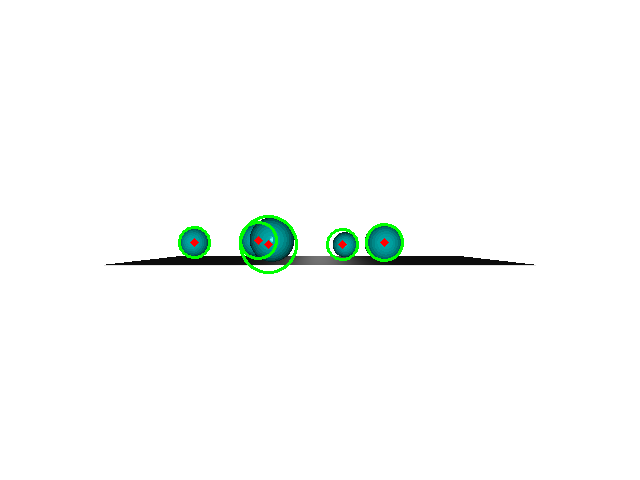
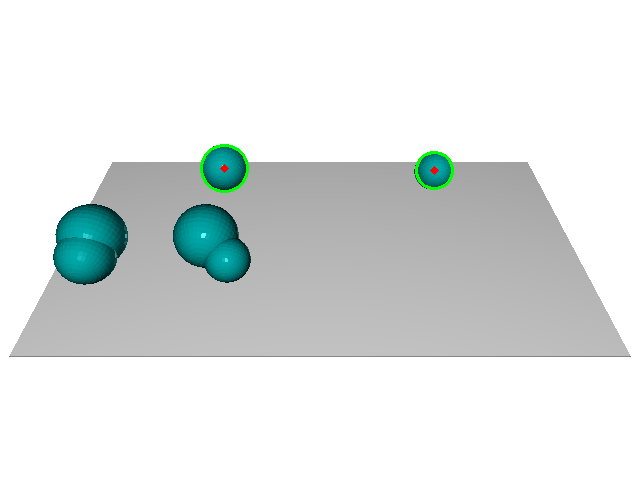
task 6 and 7 done

diff --git a/CWII2324-v2.py b/CWII2324-v2.py
@@ -28,31 +28,60 @@ http://www.open3d.org/docs/latest/tutorial/Basic/visualization.html
 '''
 
 
-def compute_3d_location(K, R, T, points2D):
-    """
-  K is the camera matrix that includes the focal length and the optical center.
-  R and T are the rotation and translation of the camera.
-  points2D is the 2D point in the camera view.
-  """
-    # Convert the 2D point to homogeneous coordinates
-    points2D = np.array(points2D).reshape(-1, 1)
-    points2D_homogeneous = np.hstack((points2D, np.ones((points2D.shape[0], 1))))
+def triangulate_point2(p_left, p_right, M_left, M_right, K):
+    # Convert image points to normalized camera coordinates
+    K_inv = np.linalg.inv(K)
+    p_left_norm = K_inv.dot(np.append(p_left, 1))
+    p_right_norm = K_inv.dot(np.append(p_right, 1))
 
-    # Compute the 3D location of the point in the camera view
-    points3D_camera = np.linalg.inv(K) @ points2D_homogeneous
+    # Construct matrix A for the linear system Ap = 0
+    A = np.array([
+        p_left_norm[0] * M_left[2, :] - M_left[0, :],
+        p_left_norm[1] * M_left[2, :] - M_left[1, :],
+        p_right_norm[0] * M_right[2, :] - M_right[0, :],
+        p_right_norm[1] * M_right[2, :] - M_right[1, :]
+    ])
 
-    # Compute the 3D location of the point in the world view
-    points3D_world = np.linalg.inv(R @ T) @ points3D_camera
+    # Solve for P using SVD
+    U, S, Vt = np.linalg.svd(A)
+    P = Vt[-1]
+    P = P / P[3]  # Convert to homogeneous coordinates
 
-    return points3D_world
+    return P[:3]
 
 
-def find_AB(pl, pr, R, T):
-    x = np.dot(np.transpose(R), pr)
-    b = (pl[1] * T[2] - T[1]) / (x[1] - x[2] * pl[1])
-    a = b * x[2] + T[2]
+def skew_symmetric(v):
+    return np.array([[0, -v[2], v[1]], [v[2], 0, -v[0]], [-v[1], v[0], 0]])
 
-    return a, b
+
+def compute_fundamental_matrix(M_left, M_right, K):
+    # Compute Left-to-Right Camera Transformation
+    M_left_to_right = np.dot(M_right, np.linalg.inv(M_left))
+
+    # Extract R and T from the Left-to-Right Camera Transformation
+    R = M_left_to_right[:3, :3]
+    T = M_left_to_right[:3, 3]
+
+    # Compute Essential Matrix
+    T_skew = skew_symmetric(T)
+    E = np.dot(T_skew, R)
+
+    # Compute Fundamental Matrix
+    K_inv = np.linalg.inv(K)
+    F = np.dot(np.dot(K_inv.T, E), K_inv)
+
+    return F, R, T
+
+
+def remove_duplicates_with_higher_distance(points_list):
+    best_entries = {}
+
+    for c, mc, d in points_list:
+        if c not in best_entries or d < best_entries[c][1]:
+            best_entries[c] = (mc, d)
+
+    cleaned_list = [(c, mc, d) for c, (mc, d) in best_entries.items()]
+    return cleaned_list
 
 
 def findCircles(img, imageNumber):
@@ -60,8 +89,8 @@ def findCircles(img, imageNumber):
     img_gray = cv2.equalizeHist(img_gray)
     blur = cv2.medianBlur(img_gray, 5)
 
-    circles = cv2.HoughCircles(blur, cv2.HOUGH_GRADIENT, dp=1, minDist=10, param1=50, param2=15, minRadius=0,
-                            maxRadius=180)
+    circles = cv2.HoughCircles(blur, cv2.HOUGH_GRADIENT, dp=1, minDist=10, param1=50, param2=20, minRadius=10,
+                               maxRadius=100)
 
     centers = []
     if circles is not None:
@@ -329,29 +358,23 @@ if __name__ == '__main__':
     Write your code here
     '''
     ###################################
-    # Step 2: Extract features/keypoints from both images
-    # Use any feature detection algorithm of your choice
-    # For example, using ORB feature detector
-    orb = cv2.ORB_create()
-    keypoints1, descriptors1 = orb.detectAndCompute(img0, None)
-    keypoints2, descriptors2 = orb.detectAndCompute(img1, None)
 
-    # Step 3: Compute the fundamental matrix
-    # Use the keypoints and descriptors from step 2
-    matcher = cv2.BFMatcher(cv2.NORM_HAMMING)
-    matches = matcher.match(descriptors1, descriptors2)
-    points1 = np.float32([keypoints1[m.queryIdx].pt for m in matches]).reshape(-1, 1, 2)
-    points2 = np.float32([keypoints2[m.trainIdx].pt for m in matches]).reshape(-1, 1, 2)
-    fundamental_matrix, _ = cv2.findFundamentalMat(points1, points2, cv2.FM_RANSAC)
+    F, R, T = compute_fundamental_matrix(H0_wc, H1_wc, K.intrinsic_matrix)
 
     epipolarLines = []
-
+    epipolarLinesR = []
     for point in circles_center0:
         homogeneous_point = np.array([point[0], point[1], 1])
-        epipolar_line = np.dot(fundamental_matrix, homogeneous_point)
+        homogeneous_pointR = np.array([point[0] , point[1]- point[2], 1])
+
+        epipolar_line = np.dot(F, homogeneous_point)
+        epipolar_lineR = np.dot(F, homogeneous_pointR)
 
         epipolar_line_homogeneous = np.array([epipolar_line[0], epipolar_line[1], epipolar_line[2]])
+        epipolar_line_homogeneousR = np.array([epipolar_lineR[0], epipolar_lineR[1], epipolar_lineR[2]])
+
         epipolar_line_homogeneous /= np.linalg.norm(epipolar_line_homogeneous)
+        epipolar_line_homogeneousR /= np.linalg.norm(epipolar_line_homogeneousR)
 
         a, b, c = epipolar_line_homogeneous
         x0, x1 = 0, img1.shape[1] - 1
@@ -359,10 +382,22 @@ if __name__ == '__main__':
         y1 = int((-c - a * x1) / b)
         epipolarLines.append((a, b, c, point))
 
-        epipolar_line_image = cv2.line(img1, (x0, y0), (x1, y1), (0, 255, 0), 2)
+        epipolar_line_image = cv2.line(img1, (x0, y0), (x1, y1), (255, 0, 0), 2)
+
+        a, b, c = epipolar_line_homogeneousR
+        x0, x1 = 0, img1.shape[1] - 1
+        y0 = int((-c - a * x0) / b)
+        y1 = int((-c - a * x1) / b)
+        epipolarLinesR.append((a, b, c, point))
+
+        epipolar_line_image = cv2.line(img1, (x0, y0), (x1, y1), (0, 0, 255), 2)
+        new = cv2.circle(img0, (point[0], point[1] - point[2]), 1, (0, 0, 0), 2)
 
     # Step 7: Display the updated second image with the drawn epipolar line
     cv2.imshow('Epipolar Line Image', epipolar_line_image)
+    cv2.imwrite("lines.png", epipolar_line_image)
+    cv2.imwrite("r.png", new)
+
     cv2.waitKey(0)
     cv2.destroyAllWindows()
 
@@ -389,12 +424,19 @@ if __name__ == '__main__':
             if d < mind:
                 mind = d
                 matchCircle = c
-        match.append((circle, matchCircle))
 
-    for c, mc in match:
-        color = (random.randint(100, 255), random.randint(100, 255), random.randint(100, 255))
-        match0 = cv2.circle(img0_copy, (mc[0], mc[1]), 2, color, 3)
-        match1 = cv2.circle(img1_copy, (c[0], c[1]), 2, color, 3)
+        if mind < 0.25:
+            match.append((matchCircle, circle, mind))
+
+    match = remove_duplicates_with_higher_distance(match)
+    colors = [(0, 255, 0), (255, 0, 0), (0, 0, 255), (0, 0, 0), (255, 255, 255), (0, 128, 255)]
+    i = 0
+    for c, mc, d in match:
+        if i < 6:
+            color = colors[i]
+            i = i + 1
+            match1 = cv2.circle(img1_copy, (mc[0], mc[1]), 2, color, 3)
+            match0 = cv2.circle(img0_copy, (c[0], c[1]), 2, color, 3)
 
     cv2.imwrite("match0.png", match0)
     cv2.imwrite("match1.png", match1)
@@ -406,96 +448,14 @@ if __name__ == '__main__':
     Write your code here
     '''
     ###################################
+    # Implement Task 6
+    spheres_3D_world = []
 
-
-
-    coordinates = []
-    for x, y in match:
-        coordinates.append(((x[0] - ox, x[1] - oy, 1), (y[0] - ox, y[1] - oy, 1)))
-
-    points3D = []
-
-    for left, right in coordinates:
-        left3D = np.linalg.inv(K.intrinsic_matrix) @ left
-        right3D = np.linalg.inv(K.intrinsic_matrix) @ right
-        R = H1_wc[:3, :3]
-        T = H1_wc[:3, 3]
-
-
-        a, b = find_AB(left3D, right3D, R, T)
-
-
-
-
-        proj1 = a * np.array(left)
-
-        proj2 = b * np.dot(np.transpose(R), right3D) + T
-
-
-
-
-        P = (proj1 + proj2) / 2
-
-
-
-        points3D.append(P)
-    print(points3D)
-
-    E = np.matmul(np.transpose(K.intrinsic_matrix), np.matmul(fundamental_matrix, K.intrinsic_matrix))
-
-    # Step 3: Decompose the essential matrix to obtain the relative camera pose
-    _, R, t, _ = cv2.recoverPose(E, points1, points2, K.intrinsic_matrix)
-    projection_matrix = np.array([
-        [2 * f / img_width, 0, 0, 0],
-        [0, 2 * f / img_height, 0, 0],
-        [0, 0, -1, 0]
-
-    ])
-    # Step 4: Compute the 3-D location of the sphere centers
-    sphere_centers_3d = []
-    for (circle_center0, circle_center1) in match:
-        # Convert the circle centers to homogeneous coordinates
-        circle_center0_homogeneous = np.array([circle_center0[0], circle_center0[1]])
-        circle_center1_homogeneous = np.array([circle_center1[0], circle_center1[1]])
-
-        # Triangulate the 3-D point using the relative camera pose
-        P0 = H0_wc[:3]
-        P1 = H1_wc[:3]
-        print(P1)
-        sphere_center_3d_homogeneous = cv2.triangulatePoints( P0,  P1, circle_center0_homogeneous,circle_center1_homogeneous)
-
-        # Convert the 3-D point from homogeneous coordinates to Cartesian coordinates
-        sphere_center_3d_cartesian = sphere_center_3d_homogeneous[:3] / sphere_center_3d_homogeneous[3]
-
-        # Append the 3-D point to the list of sphere centers
-        sphere_centers_3d.append((sphere_center_3d_cartesian[0][0], 1,sphere_center_3d_cartesian[1][0]))
-    print(sphere_centers_3d)
-
-    k = [[K.intrinsic_matrix[0][0],K.intrinsic_matrix[0][1],K.intrinsic_matrix[0][2],0],
-         [K.intrinsic_matrix[1][0], K.intrinsic_matrix[1][1], K.intrinsic_matrix[1][2], 0],
-         [K.intrinsic_matrix[2][0], K.intrinsic_matrix[2][1], K.intrinsic_matrix[2][2], 0],
-         ]
-
-    p = np.array(k)@H1_wc
-
-    answer = np.array([[k[0][3]-k[2][3]],
-              [k[1][3]-k[2][3]],
-              [p[0][3]-p[2][3]],
-              [p[1][3]-p[2][3]]])
-    sphere_centers_3d = []
-    for (circle_center0, circle_center1) in match:
-        ur= circle_center1[0]
-        vr = circle_center1[1]
-        ul = circle_center0[0]
-        vl = circle_center0[1]
-        matrix = np.array([[ur*k[2][0] - k[0][0],     ur*k[2][1] - k[0][1],        ur*k[2][2] - k[0][2]   ],
-                  [vr*k[2][0] - k[1][0],      vr*k[2][1] - k[1][1],     vr*k[2][2] - k[1][2]],
-                  [ul * p[2][0]-p[0][0],      ul * p[2][1]-p[0][1],        ul * p[2][2]-p[0][2]],
-                  [vl * p[2][0]-p[1][0],      vl * p[2][1]-p[1][1],        vl * p[2][2]-p[1][2]]])
-        point_3D = np.linalg.inv( np.transpose(matrix) @ matrix ) @ np.transpose(matrix) @ answer
-
-        sphere_centers_3d.append((point_3D[0][0], 1, point_3D[2][0]))
-
+    for lc, rc, _ in match:
+        P = triangulate_point2(np.array([lc[0], lc[1]]), np.array([rc[0], rc[1]]), H0_wc, H1_wc, K.intrinsic_matrix)
+        print(P)
+        if -12 * 1.2 <= P[0] <= 12 * 1.2 and 1 * 0.8 <= P[1] <= 1.6 * 1.2 and -6 * 1.2 <= P[2] <= 6 * 1.2:
+            spheres_3D_world.append(P)
 
     ###################################
     '''
@@ -506,23 +466,20 @@ if __name__ == '__main__':
     ###################################
 
     pcd_est_cents = o3d.geometry.PointCloud()
-    pcd_est_cents.points = o3d.utility.Vector3dVector(np.array(sphere_centers_3d)[:, :3])
+    pcd_est_cents.points = o3d.utility.Vector3dVector(np.array(spheres_3D_world)[:, :3])
     pcd_est_cents.paint_uniform_color([0., 0., 1.])
+    # Add the point clouds to the visualization
+    vis = o3d.visualization.Visualizer()
     print("--------")
     print(np.asarray(pcd_GTcents.points))
     print("--------")
     print(np.asarray(pcd_est_cents.points))
     print("--------")
-    print(np.array(GT_rads))
-    # Add the point clouds to the visualization
-    vis = o3d.visualization.Visualizer()
     vis.create_window(width=640, height=480, left=0, top=0)
     for m in [obj_meshes[0], pcd_GTcents]:
-
         vis.add_geometry(m)
 
-    vis.add_geometry( pcd_est_cents)
-
+    vis.add_geometry(pcd_est_cents)
 
     vis.run()
     vis.destroy_window()
